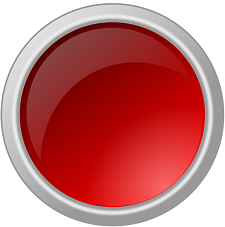
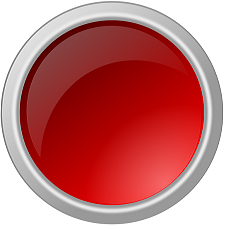
Sylvain v10.3

diff --git a/src/app/file-attente/file-attente.page.scss b/src/app/file-attente/file-attente.page.scss
@@ -59,16 +59,16 @@
     align-items: center;
 }
 #background {
-    height: 31.5vh;
-    width: 31.5vh;
+    height: 22vh;
+    width: 22vh;
     background-repeat: no-repeat;   
-    background-size: cover;
+    background-size: 22vh 21.5vh;
 }
 .clicked{
-    background-image: url(../../assets/redbutton.png);
+    background-image: url(../../assets/red2.png);
 }
 .unclicked{
-    background-image: url(../../assets/bluebutton.jpg);
+    background-image: url(../../assets/blue2.png);
 }
 
 #nombre ,#temps {
